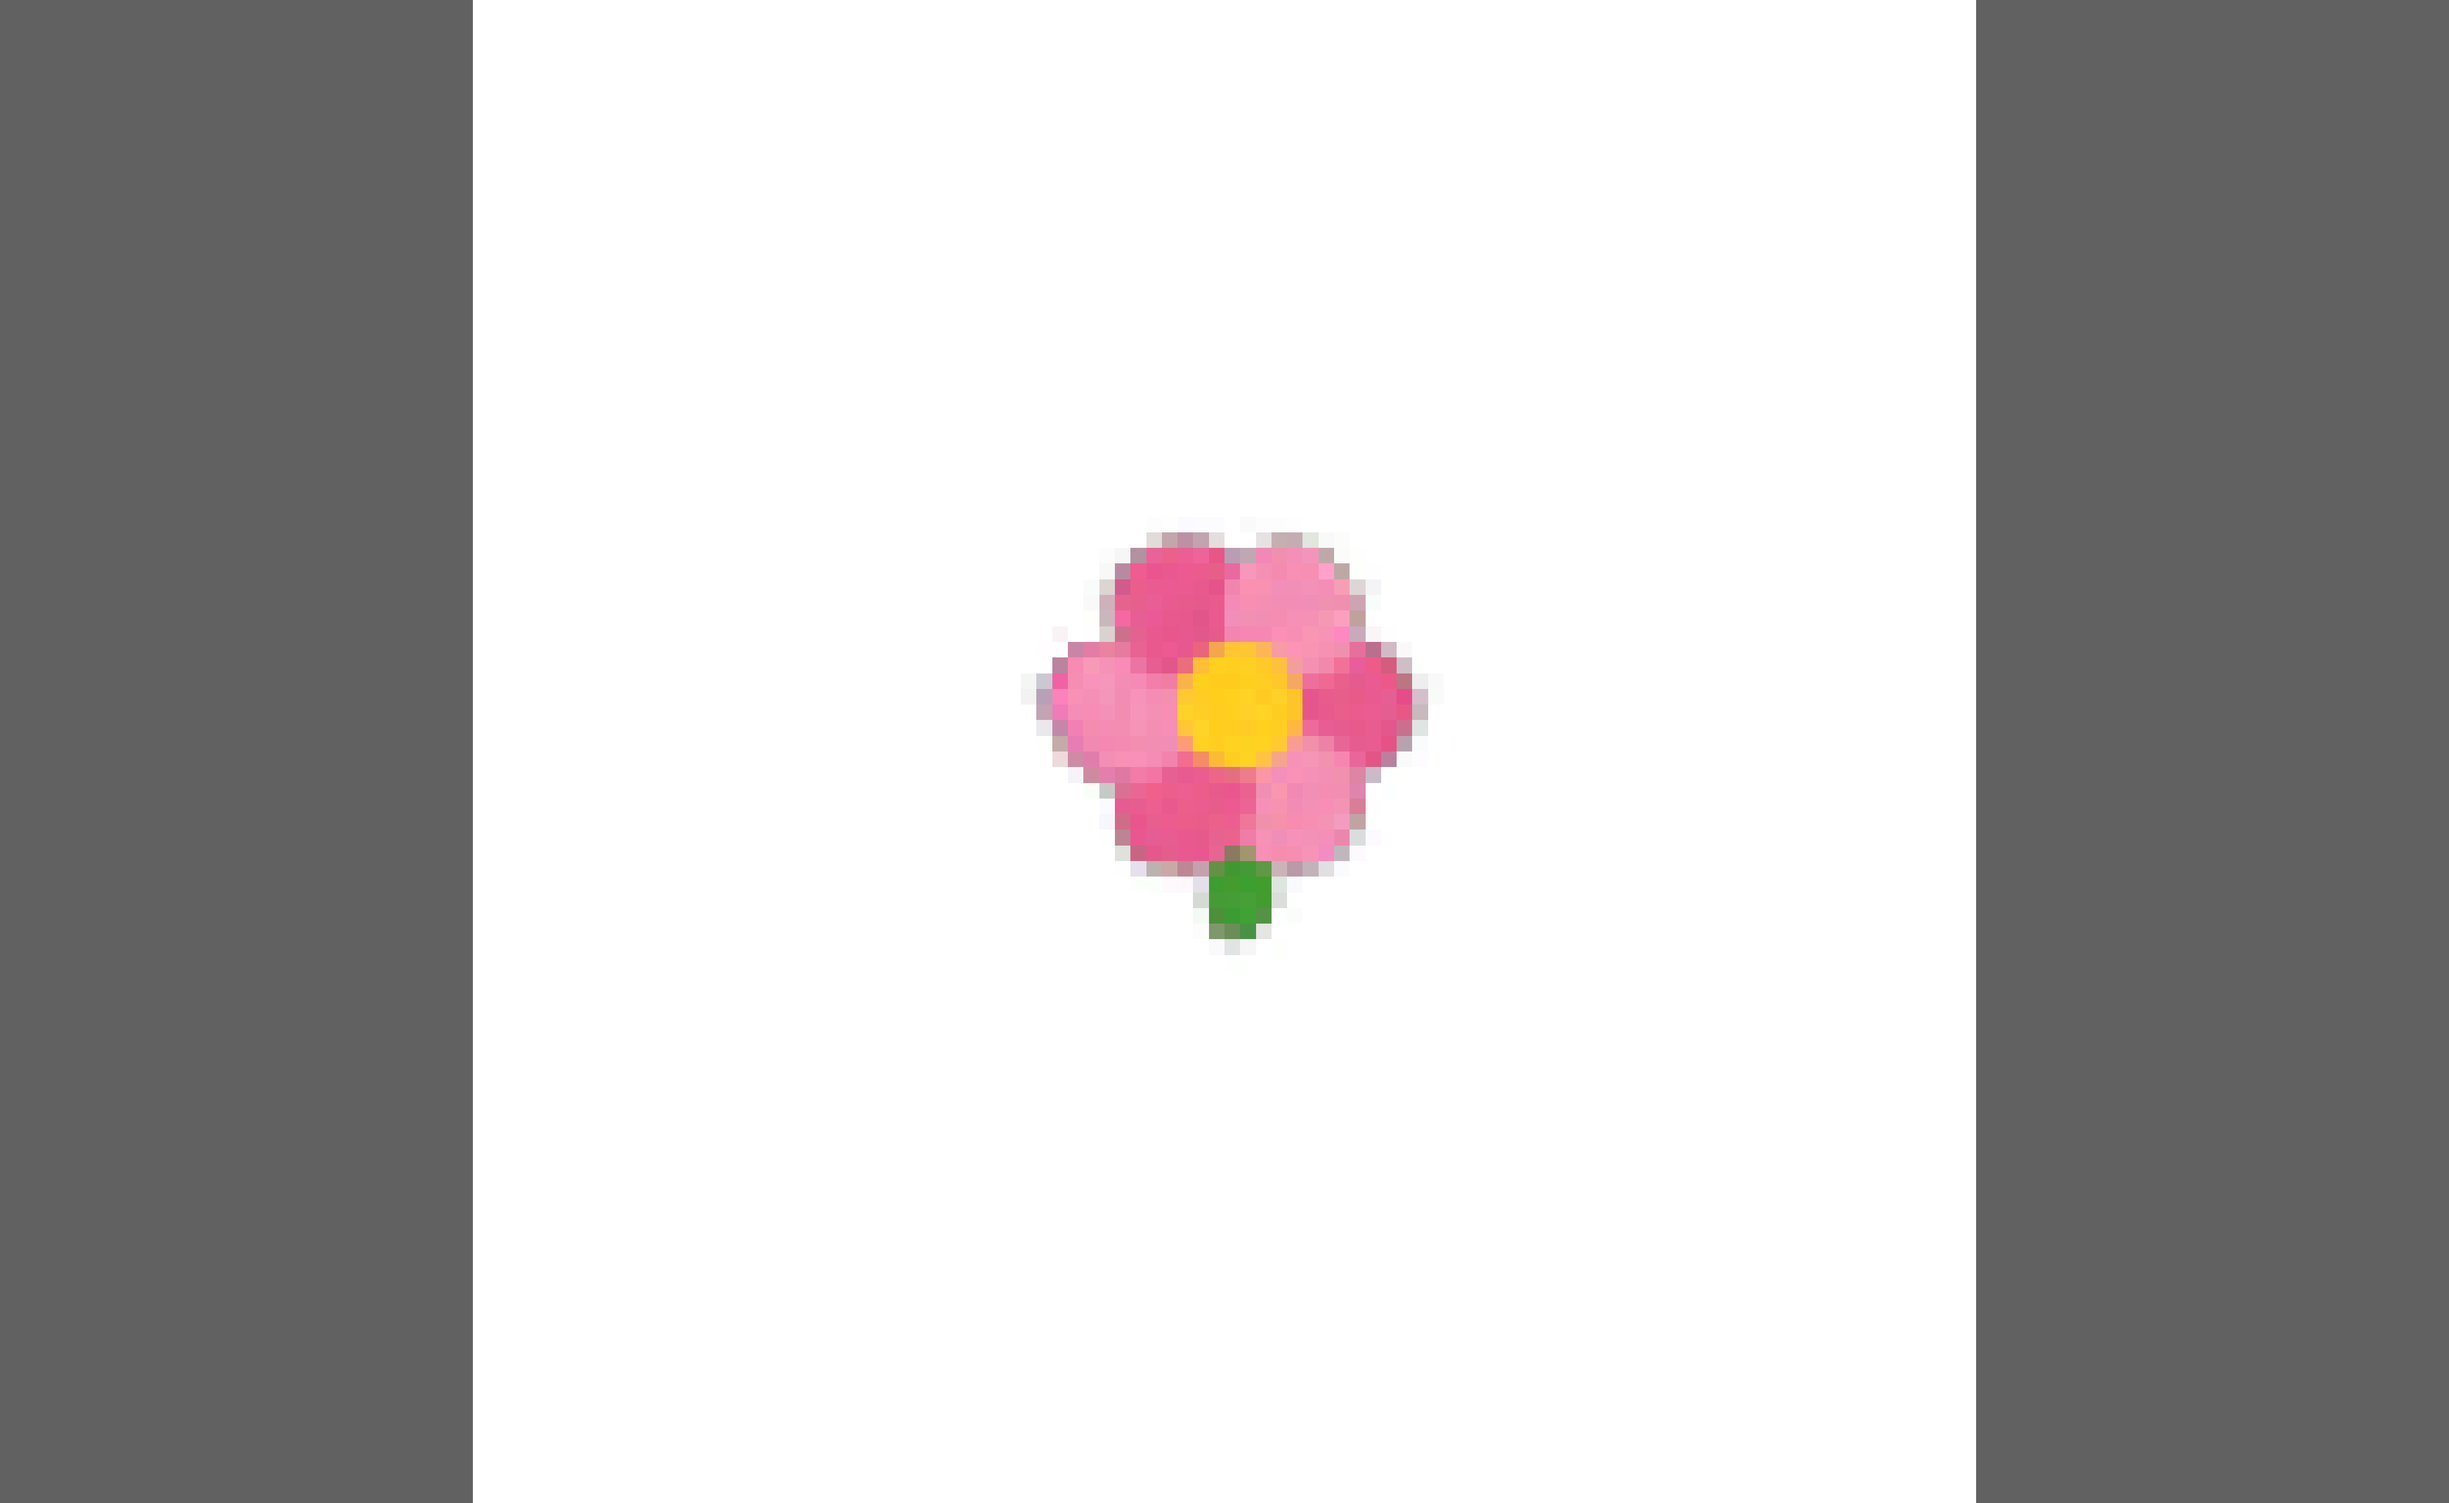
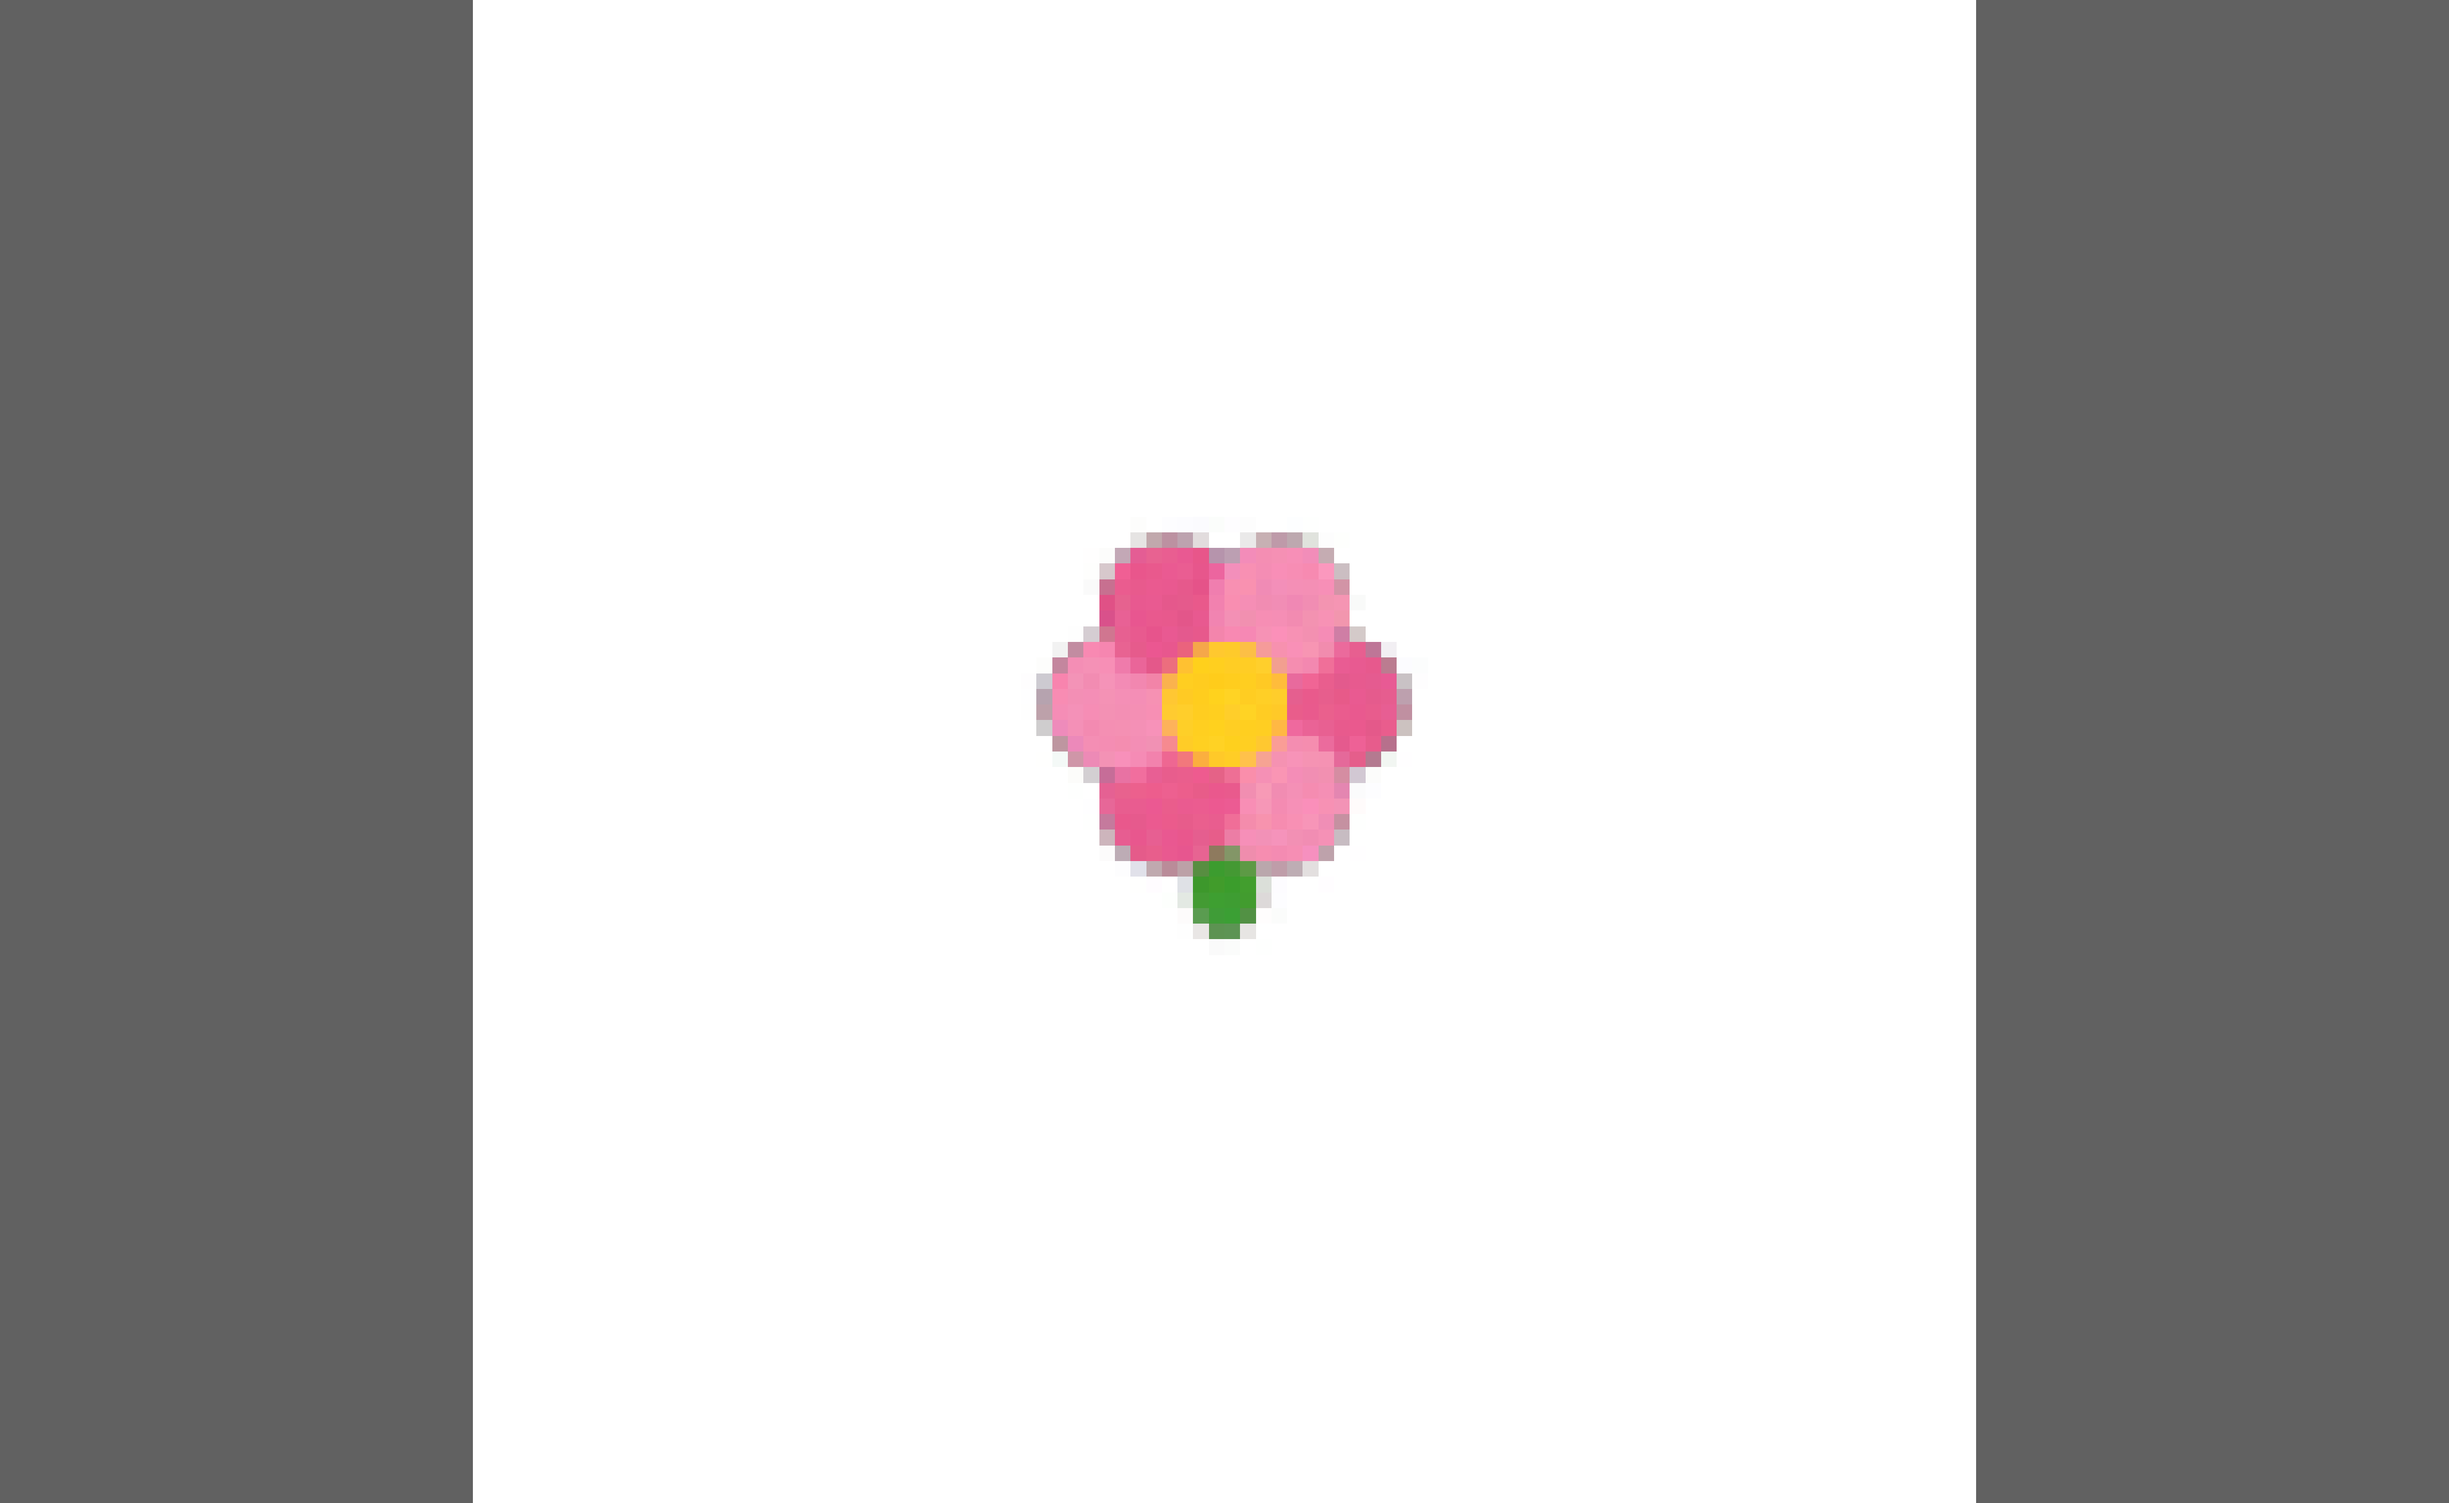
Growing NCA: pure push bindings; state advances in the compute tasks
The GPU box no longer changes state inside push bindings (seed = { step++ }, the brush lambda that
armed and cleared the cut). A binding runs each time its block is written, which can be more than
once per dispatch, so step++ there advanced by 2 and froze parity. The compute tasks now advance step
and set/clear brush; seed = { step } and brush = { brush } only read, as ShaderBmlSystem does.
Structure.bind's KDoc states the rule. Drops the page aside about the reverted engine change and
rewrites the dev_docs trap. Verified on the GPU: transcript replay applied 11, flower grows, an
auto-cut at step 401 heals; gpu_window.png recaptured by the docs runner.

Changed region(s): [[0.4358, 0.3399, 0.5914, 0.649], [0.4047, 0.4635, 0.4358, 0.4945]]

diff --git a/src/jvmMain/kotlin/afield/graphics/vulkan/buffers/Structure.kt b/src/jvmMain/kotlin/afield/graphics/vulkan/buffers/Structure.kt
@@ -356,6 +356,11 @@ open class Structure(
         return dropped
     }
 
+    /**
+     * Binds [property] to [value], which is called each time the block is written. A binding may run
+     * more than once per dispatch (the fan-out check reads every binding before the write does), so it
+     * must only read state, never change it: advance counters in the code that records the dispatch.
+     */
     fun bind(property: String, value: Function0<*>) {
         markDirty()
         val key = storageKey(property)

diff --git a/public/docs/growing_nca.md b/public/docs/growing_nca.md
@@ -131,18 +131,10 @@ fun stepMesh(parity: Int): ComputeMesh {
     m.nw = { weights }
     m.size = { n }
     m.parity = { parity }
-    // a fresh random update mask every step
-    m.seed = {
-        step++
-        step
-    }
-    m.brush = {
-        // with no mouse about, cut a disc out of the flower every 600 steps (5 s)
-        if (autoCut && parity == 0 && step % 600 == 401) brush = vec(n / 2 + (Math.random() - 0.5) * 16, n / 2 - 4 + (Math.random() - 0.5) * 16, 9.0, 1.0)
-        val b = brush
-        if (parity == 1) brush = vec(0, 0, 0, 0)
-        b
-    }
+    // `seed` gives a fresh random update mask every step. The bindings only read: the
+    // compute tasks below advance `step` and set and clear `brush`.
+    m.seed = { step }
+    m.brush = { brush }
     m.x = (n + 7) / 8
     m.y = (n + 7) / 8
     m.z = 1
@@ -158,12 +150,29 @@ val started = System.nanoTime()
 var due = false
 val forward = stepMesh(0)
 val back = stepMesh(1)
-sim += "forward" to computeTask { inside, cmd, push ->
-    due = step < (System.nanoTime() - started) / 1e9 * stepsPerSecond
-    if (due) forward.compute(inside, cmd, push)
-}
+sim +=
+    "forward" to
+        computeTask { inside, cmd, push ->
+            due = step < (System.nanoTime() - started) / 1e9 * stepsPerSecond
+            if (due) {
+                step++
+                // with no mouse about, cut a disc out of the flower every 600 steps (5 s)
+                if (autoCut && step % 600 == 401)
+                    brush = vec(n / 2 + (Math.random() - 0.5) * 16, n / 2 - 4 + (Math.random() - 0.5) * 16, 9.0, 1.0)
+                forward.compute(inside, cmd, push)
+            }
+        }
 sim += "between" to computeBarrier()
-sim += "back" to computeTask { inside, cmd, push -> if (due) back.compute(inside, cmd, push) }
+sim +=
+    "back" to
+        computeTask { inside, cmd, push ->
+            if (due) {
+                step++
+                back.compute(inside, cmd, push)
+                // the cut (or the mouse's disc) has been applied to both steps
+                brush = vec(0, 0, 0, 0)
+            }
+        }
 sim += "publish" to computeBarrier(graphics = true)
 renderer += "nca-sim" to sim
 
@@ -195,15 +204,6 @@ The compute shader is in the box's `compute` property. Open it with the property
 the network that `MlpWeights.glsl` wrote, `ncaNet`, and the perception loop around it.
 `stepsPerSecond` keeps the speed watchable, because the window can draw thousands of frames a
 second.
-
-??? aside "The push constant that ran twice"
-    The first version used one `ComputeMesh` whose `parity` push constant flipped every frame, and
-    the grid froze one step from the seed. A counting shader showed why: every push binding was
-    invoked twice per dispatch, once by the fan-out check in `FanOutDispatch.kt` and once by the
-    write, and only the second value reached the GPU. A binding that advances a counter therefore
-    advanced it twice and pushed the same parity every frame. Bindings are now evaluated once per
-    dispatch (`PushBindingsOncePerDispatchTest`). The two meshes stay because they give two steps a
-    frame with a barrier between them.
 
 ## Training a rule
 

diff --git a/dev_docs/GROWING_NCA.md b/dev_docs/GROWING_NCA.md
@@ -26,17 +26,17 @@ User page: `public/docs/growing_nca.md`. Source: Mordvintsev et al., Distill 202
 - **Behaviour after a cut.** ~300 steps after the strip's cut, an edge cell grows into a bud and then a
   second complete flower (docs strip, step 600). Training horizon is 64–96 steps, so nothing held the
   rule beyond that. Marc (2026-11-08): this is fine; describe it neutrally, don't train it away.
-- **Push bindings ran twice per dispatch (fixed 2026-11-08).** Symptom: one `ComputeMesh` with
-  `parity = { step % 2 }` and `seed = { step++ }` froze one step from the seed; readback showed grid 1
-  never written. Cause: `forEachFanOutDispatch` (`FanOutDispatch.kt`) invoked every binding to look for
-  `ParallelGeometryRef`s, then `Structure.writeToBuffer` invoked them again for the write. Side effects
-  ran twice (step += 2 per dispatch) and only the second evaluation was pushed, so parity was constant.
-  Minimal repro: a compute shader `pc.counts.c[pc.parity] += 1u` with `parity = { val p = step % 2;
-  step++; p }`. Before the fix, 120 frames gave 244 evaluations and GPU counts `0 122`; with
-  `(step / 2) % 2` they were `61 61`. After it, 122 evaluations and `61 61`. Fix: `withEvaluatedPush`
-  evaluates once and sets `Structure.dispatchSnapshot`, which the write reuses. Unit test
-  `PushBindingsOncePerDispatchTest` (negative control: fails at the step count with the snapshot
-  ignored). Applies to `Mesh`, `MeshMesh` and `ComputeMesh`, which all go through `forEachFanOutDispatch`.
+- **Push bindings must only read state.** Symptom: one `ComputeMesh` with `parity = { step % 2 }`
+  and `seed = { step++ }` froze one step from the seed; readback showed grid 1 never written. A
+  binding runs each time its block is written, which can be more than once per dispatch:
+  `forEachFanOutDispatch` (`FanOutDispatch.kt`) reads every binding to look for
+  `ParallelGeometryRef`s before `Structure.writeToBuffer` reads them again for the write. So `step++`
+  inside a binding advanced by 2 per dispatch and parity never changed. Repro: a compute shader
+  `pc.counts.c[pc.parity] += 1u` with `parity = { val p = step % 2; step++; p }` gave 244 evaluations
+  and GPU counts `0 122` over 120 frames. The box now advances `step` and sets/clears `brush` in its
+  `computeTask` lambdas and binds pure reads (`seed = { step }`), as `ShaderBmlSystem.render` does;
+  `Structure.bind`'s KDoc states the rule. An engine change that cached binding results per dispatch
+  was tried on this branch (84654ce6e) and reverted: it guaranteed something the API never promised.
   The demo keeps two fixed-parity meshes with a barrier between them, for two steps a frame.
 - `ComputeMesh()` with no args inside a local `fun` picks the primary constructor and leaves
   `inside` uninitialised (`lateinit property inside`); pass `ComputeMesh(renderer, module)`.
